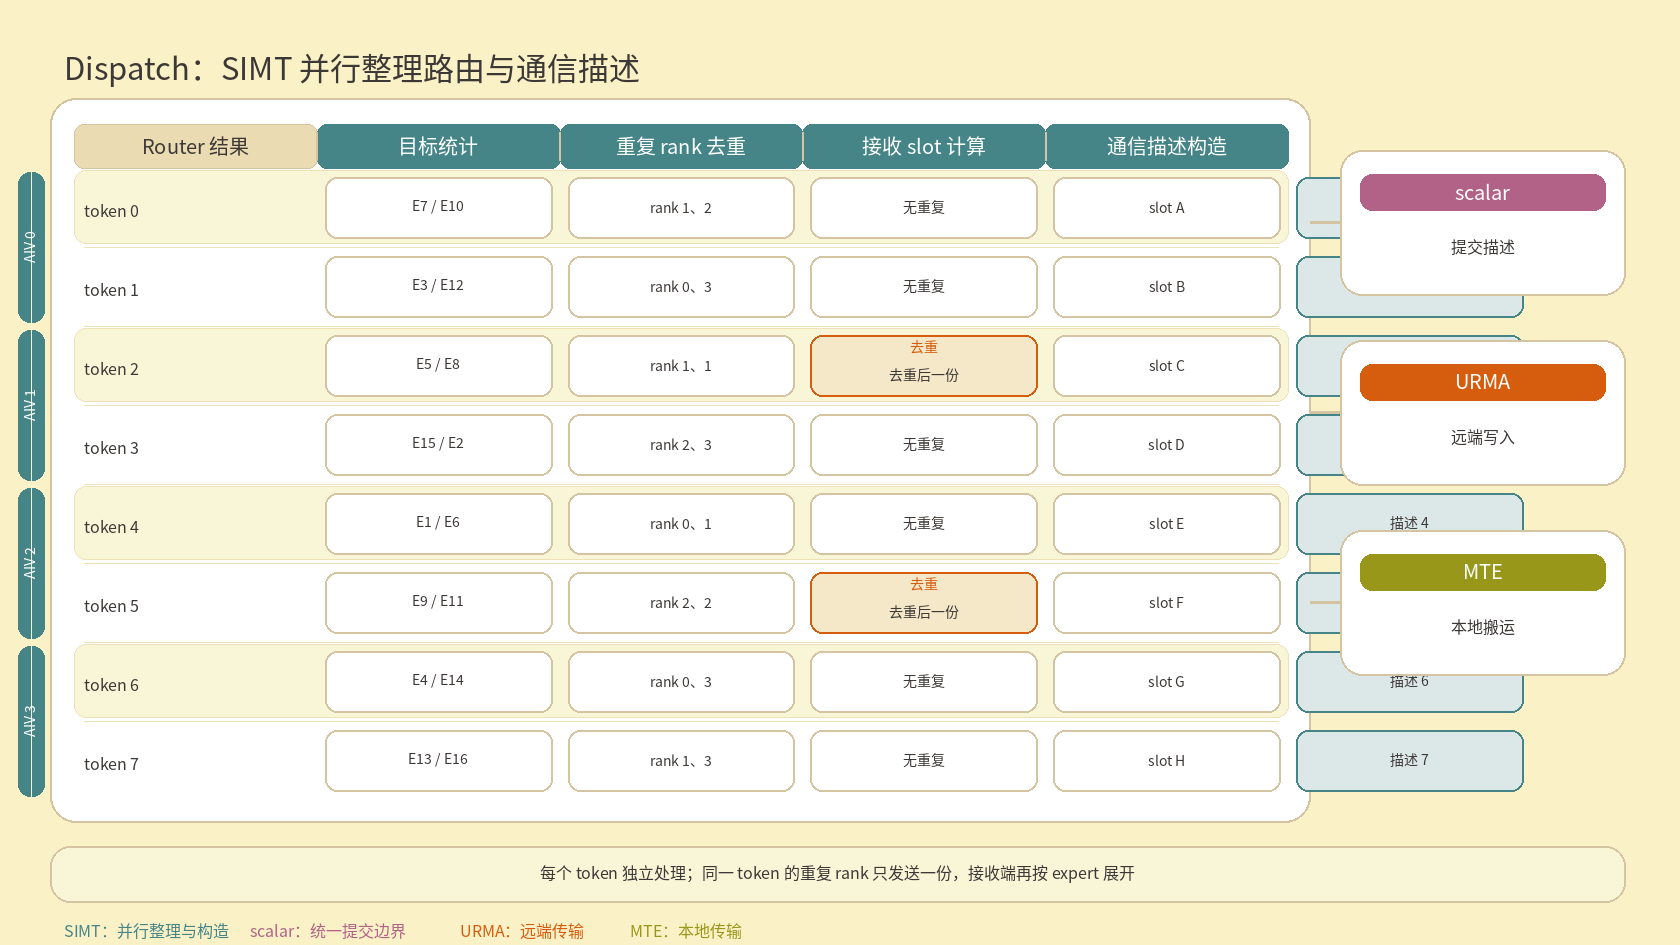
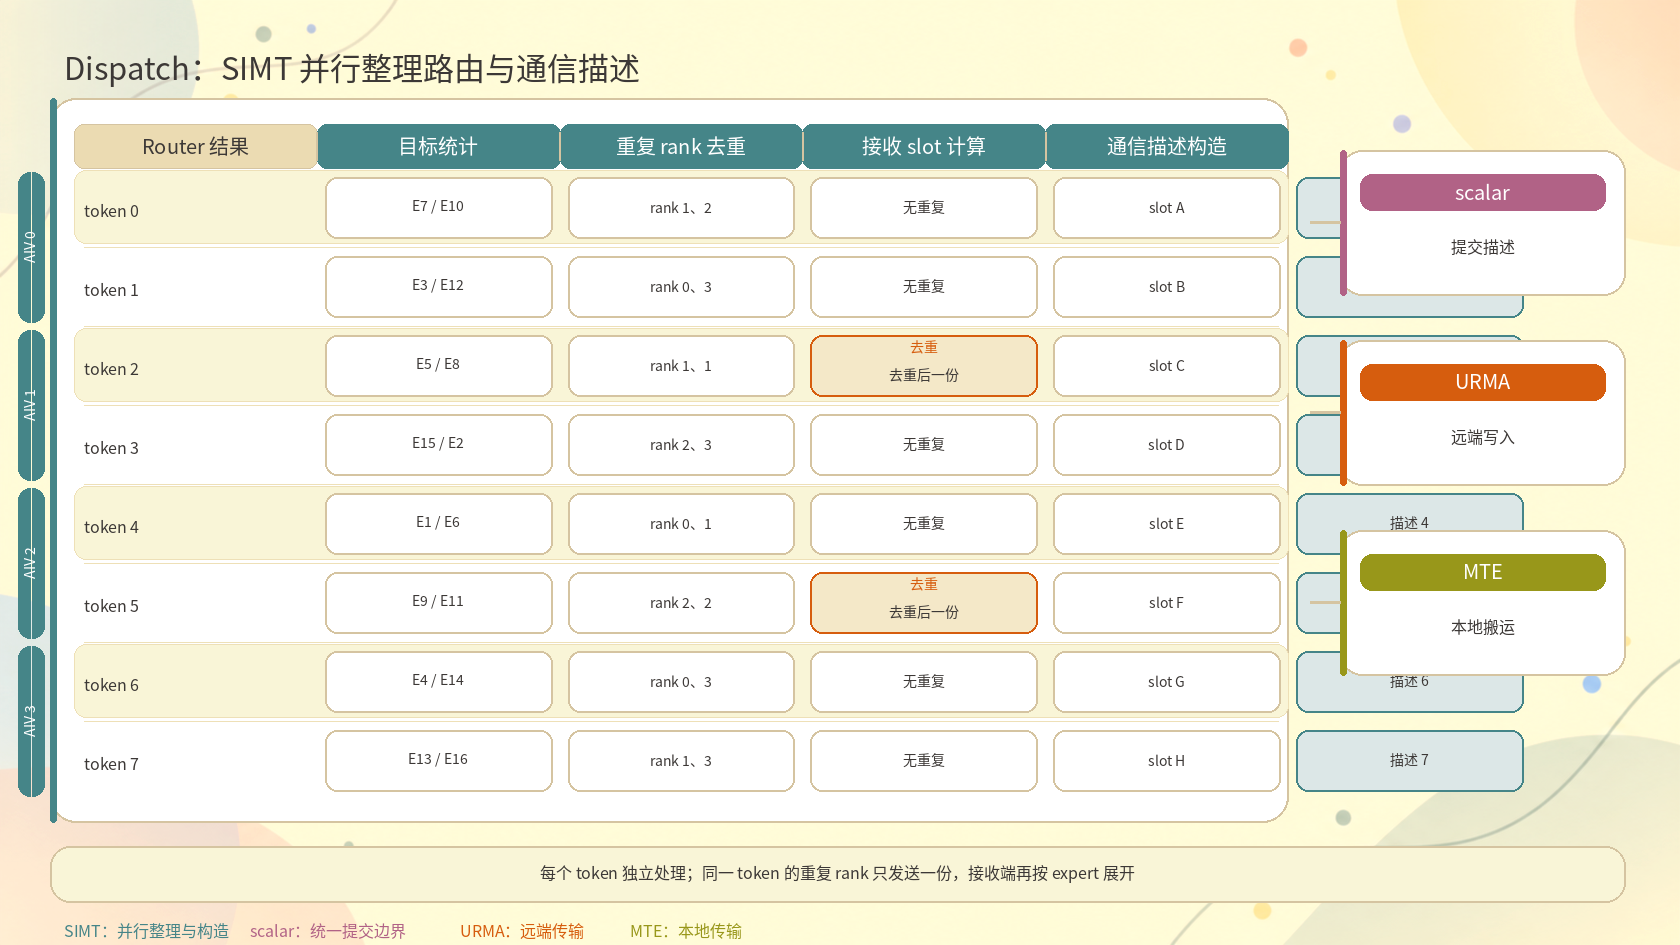
docs: refine SIMT article figures

diff --git a/tools/render_simt_figures.py b/tools/render_simt_figures.py
@@ -1,4 +1,4 @@
-from PIL import Image, ImageDraw, ImageFont
+from PIL import Image, ImageDraw, ImageEnhance, ImageFilter, ImageFont
 
 
 BG = "#fbf1c7"
@@ -36,9 +36,27 @@ def center_text(draw, box, text, f, fill=TEXT):
     draw.text((x, y), text, font=f, fill=fill)
 
 
+def soft_base(base):
+    """Keep imagegen's Gruvbox texture while reducing visual noise."""
+    im = base.filter(ImageFilter.GaussianBlur(0.7))
+    im = ImageEnhance.Contrast(im).enhance(0.82)
+    im = ImageEnhance.Brightness(im).enhance(1.06)
+    return im
+
+
+def style_card(draw, box, radius=20, accent=None):
+    draw.rounded_rectangle(box, radius=radius, fill="#ffffffee", outline=BORDER, width=2)
+    if accent:
+        x1, y1, _, _ = box
+        x2, _, _, y2 = box
+        draw.rounded_rectangle((x1, y1, x1 + 6, y2), radius=3, fill=accent)
+
+
 def render_dispatch(path):
     W, H = 1680, 945
-    im = Image.new("RGB", (W, H), BG)
+    base_path = ".scratch/imagegen/deepep-ascend-simt-figure-base-v10.png"
+    base = Image.open(base_path).convert("RGB").resize((W, H), Image.Resampling.LANCZOS)
+    im = soft_base(base)
     d = ImageDraw.Draw(im)
     f_title = font(31)
     f_h = font(20)
@@ -48,7 +66,7 @@ def render_dispatch(path):
     d.text((64, 44), "Dispatch：SIMT 并行整理路由与通信描述", font=f_title, fill=TEXT)
 
     # Main matrix card.
-    rounded(d, (50, 98, 1310, 822), 26)
+    style_card(d, (50, 98, 1288, 822), 26, SIMT)
     x0, y0, x1, y1 = 74, 124, 1288, 800
     headers = ["Router 结果", "目标统计", "重复 rank 去重", "接收 slot 计算", "通信描述构造"]
     colw = (x1 - x0) / len(headers)
@@ -119,7 +137,7 @@ def render_dispatch(path):
     ]
     for i, (name, desc, color) in enumerate(cards):
         cy = 150 + i * 190
-        rounded(d, (1340, cy, 1625, cy + 145), 22)
+        style_card(d, (1340, cy, 1625, cy + 145), 22, color)
         d.rounded_rectangle((1360, cy + 24, 1605, cy + 60), radius=12, fill=color, outline=color)
         center_text(d, (1360, cy + 24, 1605, cy + 60), name, f_h, "#ffffff")
         center_text(d, (1360, cy + 74, 1605, cy + 122), desc, f_small, TEXT)
@@ -150,7 +168,9 @@ def arrow(draw, start, end, color=BORDER, width=3):
 
 def render_combine(path):
     W, H = 1680, 945
-    im = Image.new("RGB", (W, H), BG)
+    base_path = ".scratch/imagegen/deepep-ascend-simt-figure-base-v10.png"
+    base = Image.open(base_path).convert("RGB").resize((W, H), Image.Resampling.LANCZOS)
+    im = soft_base(base)
     d = ImageDraw.Draw(im)
     f_title = font(31)
     f_h = font(21)
@@ -169,16 +189,16 @@ def render_combine(path):
     ]
     for i, (name, source, color) in enumerate(tasks):
         y = 162 + i * 98
-        rounded(d, (55, y, 285, y + 78), 22)
+        style_card(d, (55, y, 285, y + 78), 22, color)
         center_text(d, (78, y + 14, 262, y + 38), name, f_h, color)
         center_text(d, (78, y + 42, 262, y + 66), source, f_small, TEXT)
 
-    rounded(d, (55, 525, 285, 645), 22)
+    style_card(d, (55, 525, 285, 645), 22, SIMT)
     center_text(d, (78, 547, 262, 571), "task D", f_h, SIMT)
     center_text(d, (78, 597, 262, 631), "本地输出", f, TEXT)
 
     # Upper track.
-    rounded(d, (350, 115, 1610, 410), 26)
+    style_card(d, (350, 115, 1610, 410), 26, SIMT)
     d.text((385, 142), "通信准备（SIMT）", font=f_h, fill=SIMT)
     upper = [("读取返回信息", "task A"), ("组织 task", "task A"), ("构造远端写描述", "task B"), ("scalar 提交", "task B")]
     for i, (name, task) in enumerate(upper):
@@ -190,7 +210,7 @@ def render_combine(path):
             arrow(d, (x - 62, 240), (x - 8, 240), SIMT, 3)
 
     # Lower track.
-    rounded(d, (350, 470, 1610, 765), 26)
+    style_card(d, (350, 470, 1610, 765), 26, SIMT)
     d.text((385, 497), "本地聚合（SIMT）", font=f_h, fill=SIMT)
     lower = [("本地 reduce", "task A"), ("写回 token 输出位置", "task A"), ("本地 reduce", "task B")]
     for i, (name, task) in enumerate(lower):
